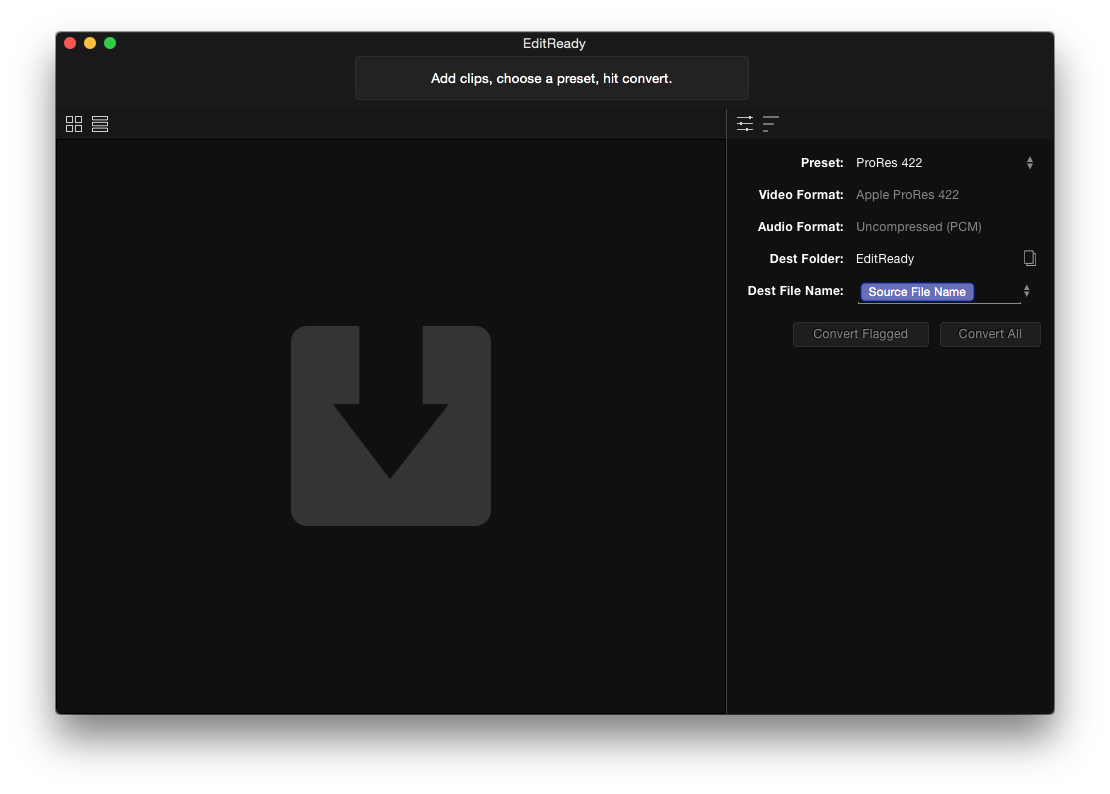
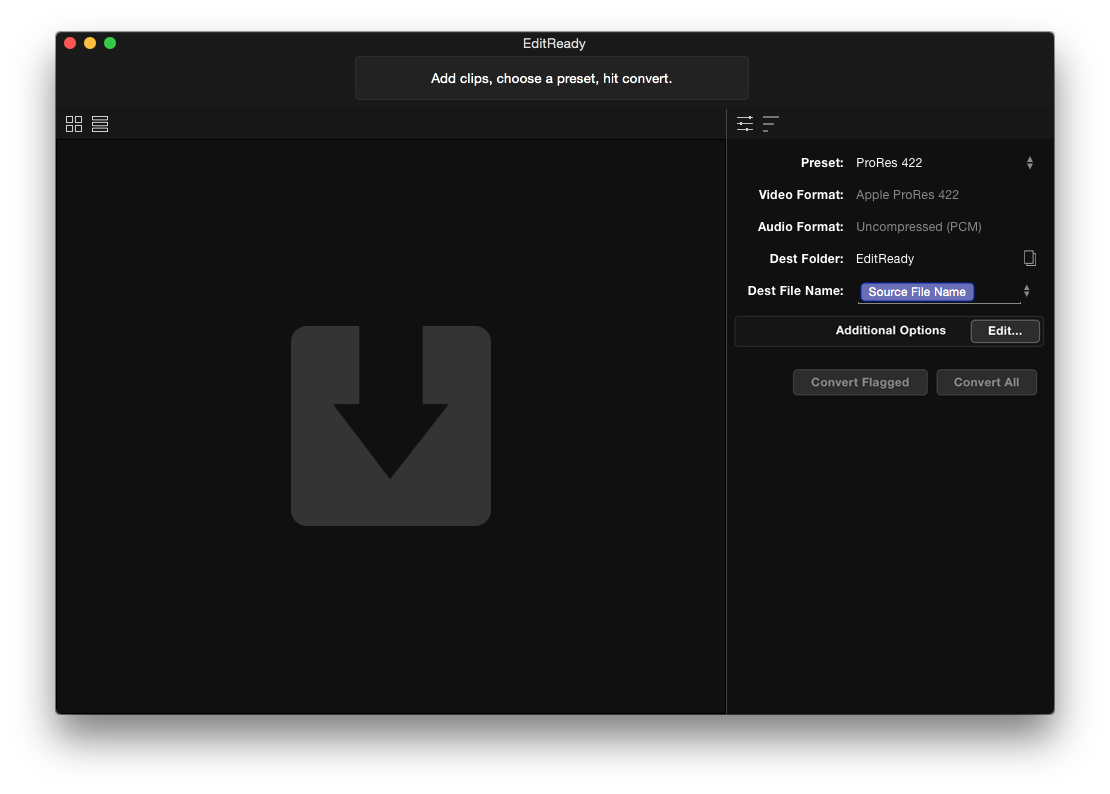
er manual

Changed region(s): [[0.7045, 0.4534, 0.9495, 0.5139], [0.7351, 0.3929, 0.9495, 0.4232]]

diff --git a/EditReady/EditReady.md b/EditReady/EditReady.md
@@ -206,9 +206,9 @@ AAC compressed audio is an ideal choice if you'll be creating H.264 compressed f
 
 Remove the audio entirely.
 
-# Options Library #
+# Additional Batch Options #
 
-EditReady provides a set of additional adjustments that can be added to your batch.  These are available via the "Options Library" which can be found in the Batch menu.  Each library entry has a set of adjustments, and is saved as part of your presets.
+EditReady provides a set of additional adjustments that can be added to your batch.  These are available via "Show Additional Options" which can be found in the Batch menu.  Each library entry has a set of adjustments, and is saved as part of your presets.
 
 ![Options Library](images/library.png)
 
